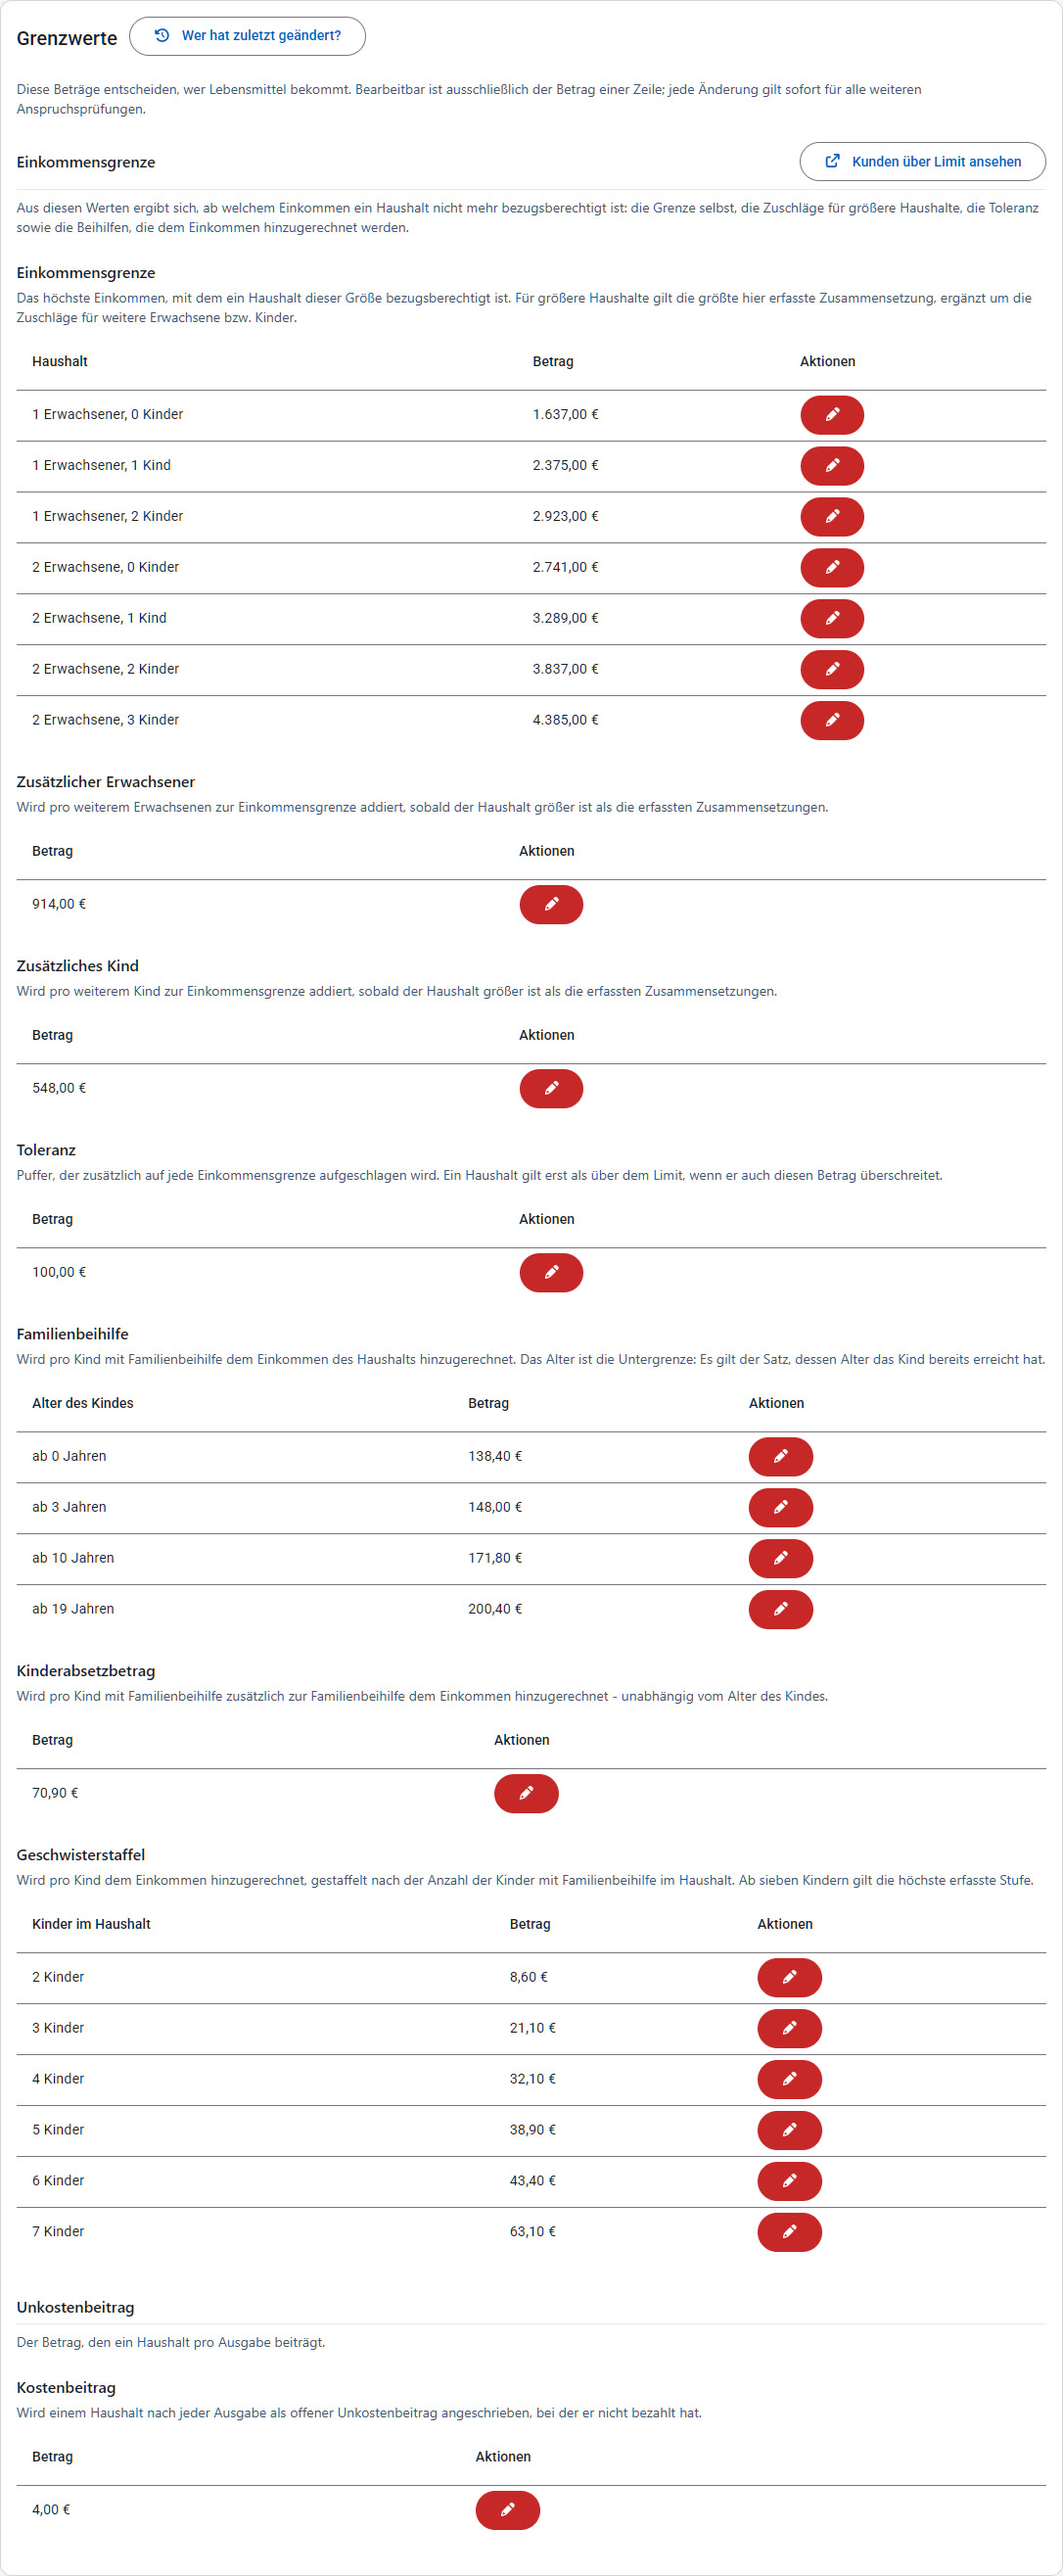
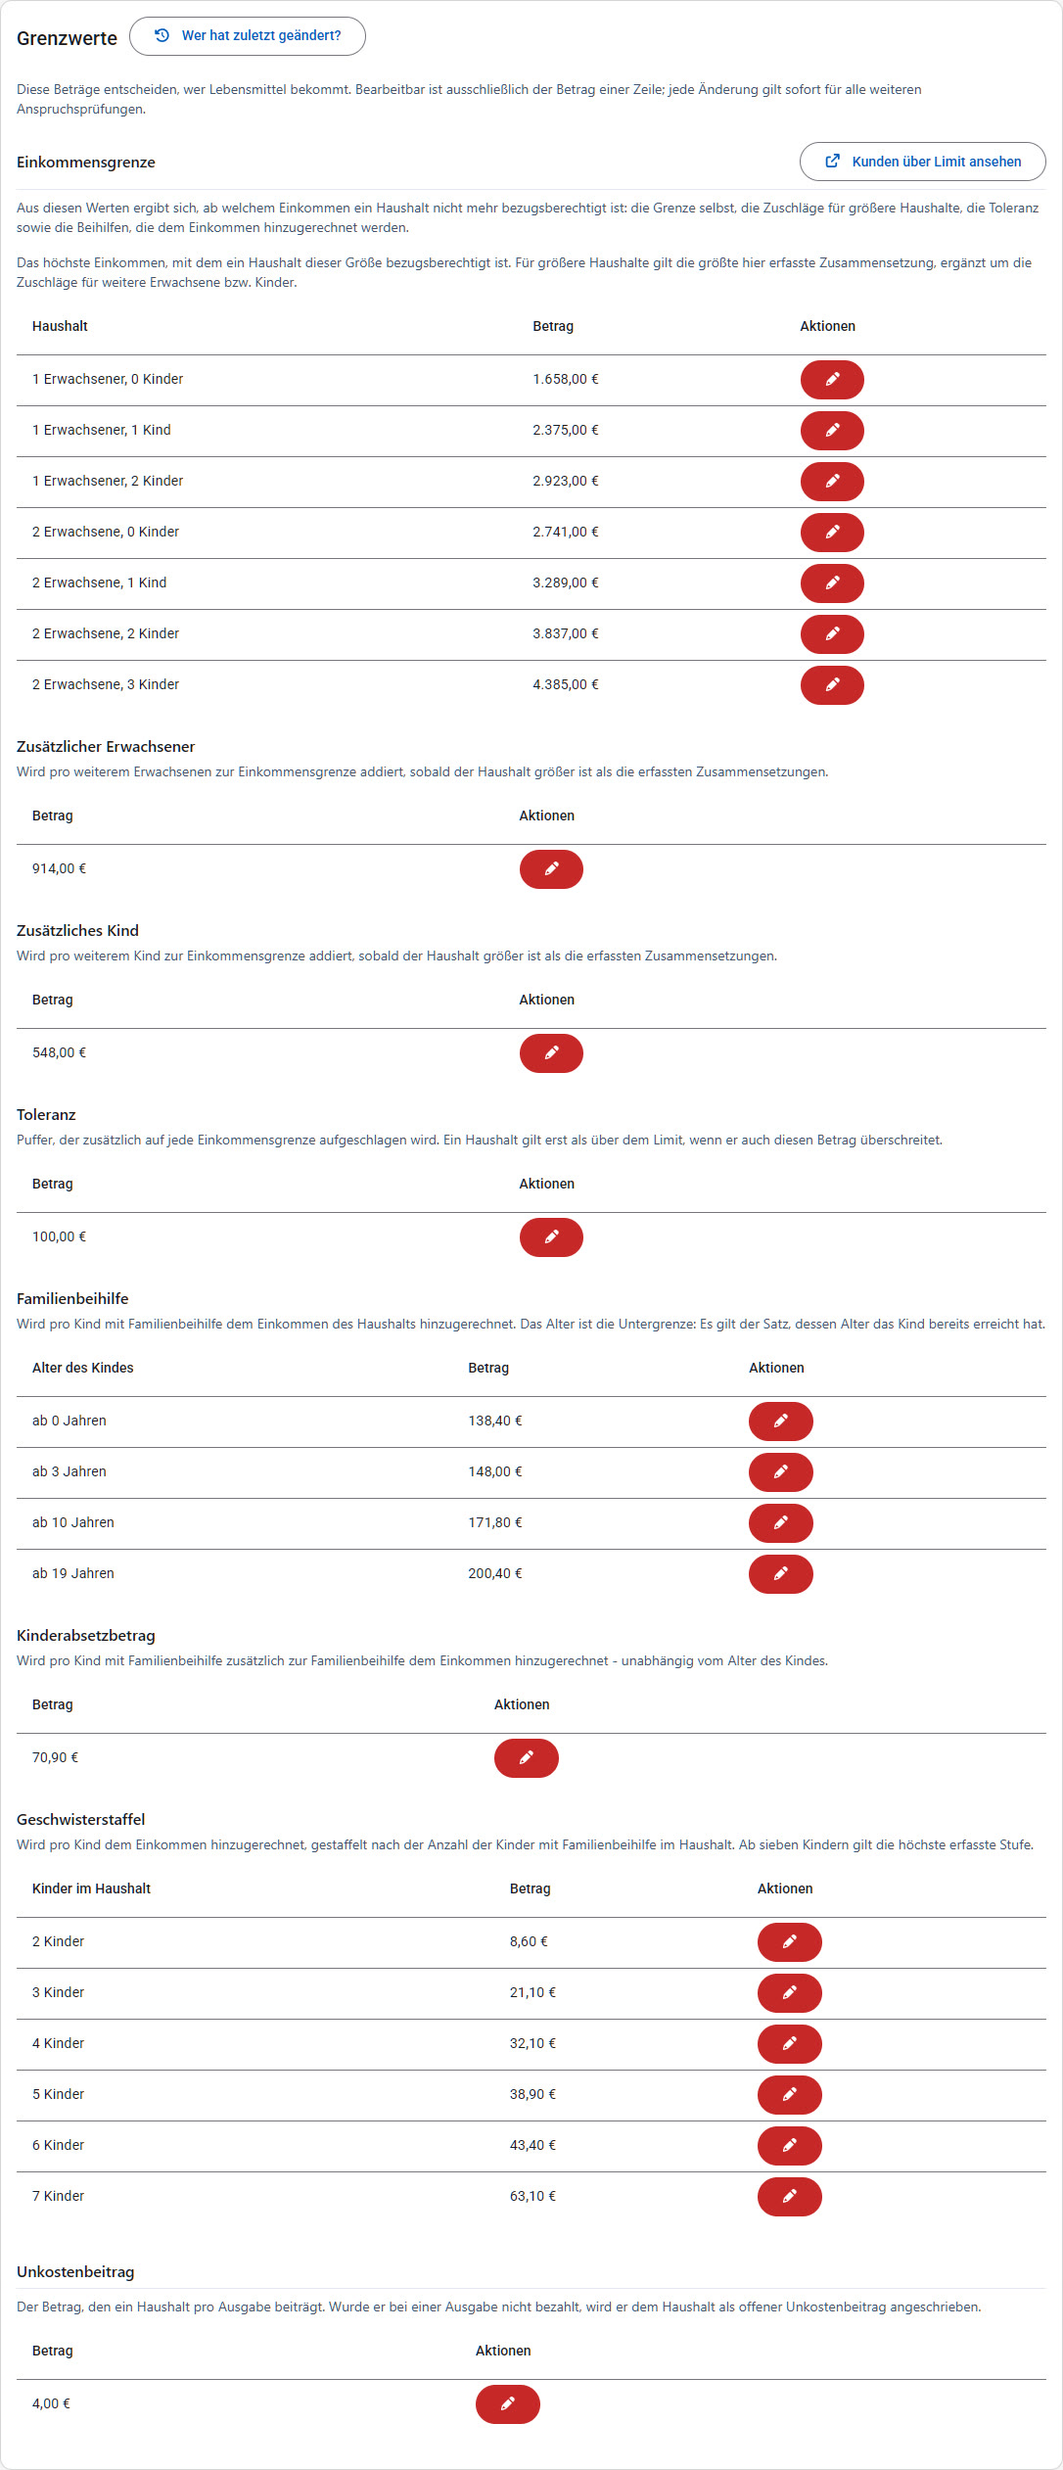
feat(settings): let a static value group's heading stand for its own type
"Einkommensgrenze" sat directly above a second "Einkommensgrenze", and
"Unkostenbeitrag" above "Kostenbeitrag" - a heading repeating the one
above it. Each group now names the type its heading already is, whose
rows render straight underneath without a second one.

The cost contribution group loses its group description with it: with a
single type under one heading, the type's own description was the same
sentence twice. That description now says both, and the type is named
"Unkostenbeitrag" like the group.

diff --git a/frontend/src/main/webapp/src/app/modules/settings/views/static-values/static-value-types.ts b/frontend/src/main/webapp/src/app/modules/settings/views/static-values/static-value-types.ts
@@ -10,7 +10,16 @@ export type StaticValueGroupKey = 'income' | 'costContribution';
 export interface StaticValueGroupSpec {
   key: StaticValueGroupKey;
   title: string;
-  description: string;
+  /**
+   * What the group as a whole is for. Left out where the group holds a single type, whose own
+   * description already says it - two paragraphs saying the same thing under one heading.
+   */
+  description?: string;
+  /**
+   * The type the group's heading already names. Its rows render directly under that heading rather
+   * than under a second one repeating it ("Einkommensgrenze" > "Einkommensgrenze").
+   */
+  headingType: StaticValueTypeEnum;
 }
 
 export const staticValueGroups: StaticValueGroupSpec[] = [
@@ -19,12 +28,13 @@ export const staticValueGroups: StaticValueGroupSpec[] = [
     title: 'Einkommensgrenze',
     description: 'Aus diesen Werten ergibt sich, ab welchem Einkommen ein Haushalt nicht mehr ' +
       'bezugsberechtigt ist: die Grenze selbst, die Zuschläge für größere Haushalte, die Toleranz ' +
-      'sowie die Beihilfen, die dem Einkommen hinzugerechnet werden.'
+      'sowie die Beihilfen, die dem Einkommen hinzugerechnet werden.',
+    headingType: StaticValueTypeEnum.INCOME_LIMIT
   },
   {
     key: 'costContribution',
     title: 'Unkostenbeitrag',
-    description: 'Der Betrag, den ein Haushalt pro Ausgabe beiträgt.'
+    headingType: StaticValueTypeEnum.COST_CONTRIBUTION
   }
 ];
 
@@ -111,9 +121,9 @@ export const staticValueTypeSpecs: Record<StaticValueTypeEnum, StaticValueTypeSp
     qualifierHeader: 'Kinder im Haushalt'
   },
   [StaticValueTypeEnum.COST_CONTRIBUTION]: {
-    label: 'Kostenbeitrag',
-    description: 'Wird einem Haushalt nach jeder Ausgabe als offener Unkostenbeitrag angeschrieben, ' +
-      'bei der er nicht bezahlt hat.',
+    label: 'Unkostenbeitrag',
+    description: 'Der Betrag, den ein Haushalt pro Ausgabe beiträgt. Wurde er bei einer Ausgabe ' +
+      'nicht bezahlt, wird er dem Haushalt als offener Unkostenbeitrag angeschrieben.',
     group: 'costContribution',
     qualifierFields: [],
     qualifierHeader: null

diff --git a/frontend/src/main/webapp/src/app/modules/settings/views/static-values/settings-static-values.component.spec.ts b/frontend/src/main/webapp/src/app/modules/settings/views/static-values/settings-static-values.component.spec.ts
@@ -130,6 +130,28 @@ describe('SettingsStaticValuesComponent', () => {
     expect(sectionOf(component, StaticValueTypeEnum.TOLERANCE).columns).toEqual(['amount', 'actions']);
   });
 
+  it('gives no heading of its own to the type the group heading already names', () => {
+    const component = createComponent();
+
+    expect(sectionOf(component, StaticValueTypeEnum.INCOME_LIMIT).showHeading).toBe(false);
+    expect(sectionOf(component, StaticValueTypeEnum.COST_CONTRIBUTION).showHeading).toBe(false);
+    expect(sectionOf(component, StaticValueTypeEnum.TOLERANCE).showHeading).toBe(true);
+  });
+
+  it('keeps naming a row by its type where the group heading is out of view', () => {
+    const component = createComponent();
+    const section = sectionOf(component, StaticValueTypeEnum.INCOME_LIMIT);
+
+    expect(component['rowLabel'](section, section.rows[0])).toBe('Einkommensgrenze - 2 Erwachsene, 1 Kind');
+  });
+
+  it('describes a single-type group once, on the type itself', () => {
+    const component = createComponent();
+
+    expect(component['groups']()[1].description).toBeUndefined();
+    expect(sectionOf(component, StaticValueTypeEnum.COST_CONTRIBUTION).description).toContain('pro Ausgabe beiträgt');
+  });
+
   it('leaves out a type that has no value at all', () => {
     const component = createComponent();
 

diff --git a/frontend/src/main/webapp/src/app/modules/settings/views/static-values/settings-static-values.component.ts b/frontend/src/main/webapp/src/app/modules/settings/views/static-values/settings-static-values.component.ts
@@ -57,6 +57,12 @@ export interface StaticValueRowView {
 export interface StaticValueSectionView {
   type: StaticValueTypeEnum;
   label: string;
+  /**
+   * Whether the section carries a heading of its own. The one type the group's heading already
+   * names does not - it would repeat it word for word. The [label] stays either way; it names the
+   * row's actions and its confirmation, where the group heading is not in view.
+   */
+  showHeading: boolean;
   description: string;
   qualifierHeader: string | null;
   /** The table's columns - the qualifier only where the rows differ in one. */
@@ -67,7 +73,7 @@ export interface StaticValueSectionView {
 export interface StaticValueGroupView {
   key: StaticValueGroupKey;
   title: string;
-  description: string;
+  description?: string;
   sections: StaticValueSectionView[];
 }
 
@@ -139,6 +145,7 @@ export class SettingsStaticValuesComponent {
           .map(([type, spec]) => ({
             type: type as StaticValueTypeEnum,
             label: spec.label,
+            showHeading: type !== group.headingType,
             description: spec.description,
             qualifierHeader: spec.qualifierHeader,
             columns: spec.qualifierHeader ? ['qualifier', 'amount', 'actions'] : ['amount', 'actions'],

diff --git a/frontend/src/main/webapp/src/app/modules/settings/views/static-values/settings-static-values.component.html b/frontend/src/main/webapp/src/app/modules/settings/views/static-values/settings-static-values.component.html
@@ -29,11 +29,15 @@
             </a>
           }
         </div>
-        <p class="mb-6 mt-2 text-sm text-slate-600">{{ group.description }}</p>
+        @if (group.description) {
+          <p class="mb-4 mt-2 text-sm text-slate-600">{{ group.description }}</p>
+        }
 
         @for (section of group.sections; track section.type) {
-          <section class="mb-6" [attr.testid]="'static-values-section-' + section.type">
-            <h4 class="mb-1 text-base font-semibold">{{ section.label }}</h4>
+          <section class="mb-6 mt-2" [attr.testid]="'static-values-section-' + section.type">
+            @if (section.showHeading) {
+              <h4 class="mb-1 text-base font-semibold">{{ section.label }}</h4>
+            }
             <p class="mb-2 text-sm text-slate-600" [attr.testid]="'static-values-description-' + section.type">
               {{ section.description }}
             </p>

diff --git a/frontend/src/main/webapp/src/app/modules/settings/README.md b/frontend/src/main/webapp/src/app/modules/settings/README.md
@@ -157,6 +157,11 @@ around:
   "Unkostenbeitrag"), each with a sentence saying what the value does and where
   it is applied — a `groups()` computed turns the flat API list into that
   structure. A type with no row at all is left out rather than rendered empty.
+  Each group names one `headingType` whose section renders *without* a heading
+  of its own, since the group heading already is it; its `label` still names
+  that row's actions and its confirmation, where the group heading is out of
+  view. A group whose only type is that one carries no description either — the
+  type's own says it.
 - **A row is qualified only by the columns its type is looked up by**
   (`qualifierFields`): the seeded tolerance row carries `countAdults`/
   `countChildren` of `0` that no lookup reads, so "every column that is not
